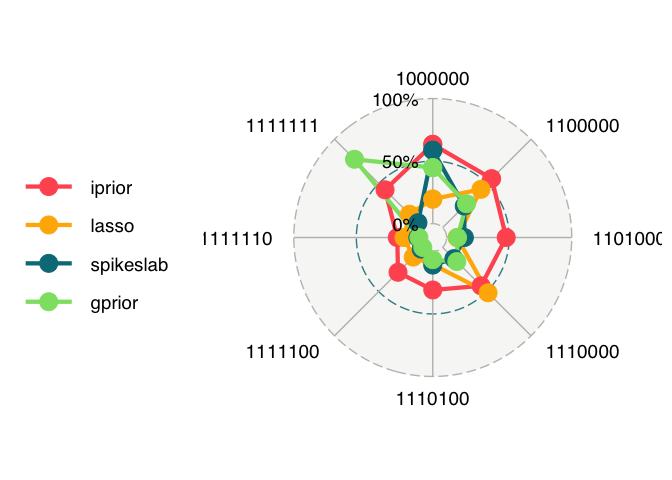
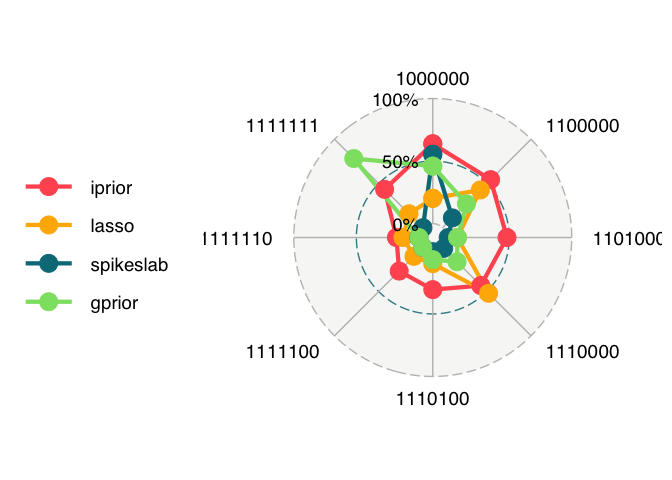
Update README based on latest simulations results

Changed region(s): [[0.5312, 0.2812, 0.75, 0.625], [0.5625, 0.375, 0.5938, 0.4062]]

diff --git a/README.md b/README.md
@@ -56,19 +56,19 @@ true model (higher is better).
 
 |     | mod     | iprior | lasso | spikeslab | gprior |
 |:----|:--------|-------:|------:|----------:|-------:|
-| 1   | 1000000 |   0.69 |  0.21 |      0.60 |   0.46 |
-| 2   | 1100000 |   0.54 |  0.33 |      0.49 |   0.29 |
-| 3   | 1101000 |   0.52 |  0.11 |      0.15 |   0.04 |
-| 4   | 1110000 |   0.33 |  0.36 |      0.43 |   0.13 |
-| 5   | 1110100 |   0.33 |  0.15 |      0.17 |   0.01 |
-| 6   | 1111100 |   0.27 |  0.10 |      0.08 |   0.00 |
-| 7   | 1111110 |   0.15 |  0.09 |      0.06 |   0.00 |
-| 8   | 1111111 |   0.18 |  0.06 |      0.09 |   0.98 |
+| 1   | 1000000 |   0.69 |  0.21 |      0.56 |   0.45 |
+| 2   | 1100000 |   0.55 |  0.33 |      0.32 |   0.29 |
+| 3   | 1101000 |   0.52 |  0.11 |      0.02 |   0.04 |
+| 4   | 1110000 |   0.33 |  0.37 |      0.18 |   0.13 |
+| 5   | 1110100 |   0.32 |  0.15 |      0.01 |   0.01 |
+| 6   | 1111100 |   0.26 |  0.09 |      0.00 |   0.00 |
+| 7   | 1111110 |   0.16 |  0.08 |      0.00 |   0.00 |
+| 8   | 1111111 |   0.19 |  0.06 |      0.00 |   0.98 |
 
 The geometric mean
 
     ##    iprior     lasso spikeslab    gprior 
-    ##     0.333     0.147     0.185     0.210
+    ##     0.337     0.146     0.031     0.204
 
 ### Correlated errors
 
@@ -76,19 +76,19 @@ The geometric mean
 
 |     | mod     | iprior | lasso | spikeslab | gprior |
 |:----|:--------|-------:|------:|----------:|-------:|
-| 1   | 1000000 |   0.63 |  0.20 |      0.59 |   0.45 |
-| 2   | 1100000 |   0.55 |  0.43 |      0.24 |   0.27 |
-| 3   | 1101000 |   0.48 |  0.08 |      0.14 |   0.09 |
-| 4   | 1110000 |   0.44 |  0.51 |      0.13 |   0.16 |
-| 5   | 1110100 |   0.31 |  0.10 |      0.11 |   0.07 |
-| 6   | 1111100 |   0.28 |  0.11 |      0.02 |   0.00 |
-| 7   | 1111110 |   0.17 |  0.12 |      0.01 |   0.00 |
-| 8   | 1111111 |   0.43 |  0.15 |      0.06 |   0.77 |
+| 1   | 1000000 |   0.64 |  0.20 |      0.55 |   0.46 |
+| 2   | 1100000 |   0.54 |  0.43 |      0.11 |   0.27 |
+| 3   | 1101000 |   0.48 |  0.09 |      0.01 |   0.09 |
+| 4   | 1110000 |   0.43 |  0.52 |      0.01 |   0.16 |
+| 5   | 1110100 |   0.31 |  0.10 |      0.00 |   0.07 |
+| 6   | 1111100 |   0.27 |  0.10 |      0.00 |   0.00 |
+| 7   | 1111110 |   0.18 |  0.13 |      0.00 |   0.00 |
+| 8   | 1111111 |   0.43 |  0.16 |      0.00 |   0.78 |
 
 The geometric mean
 
     ##    iprior     lasso spikeslab    gprior 
-    ##     0.384     0.172     0.085     0.139
+    ##     0.383     0.172     0.107     0.136
 
 ## Functional response model
 
